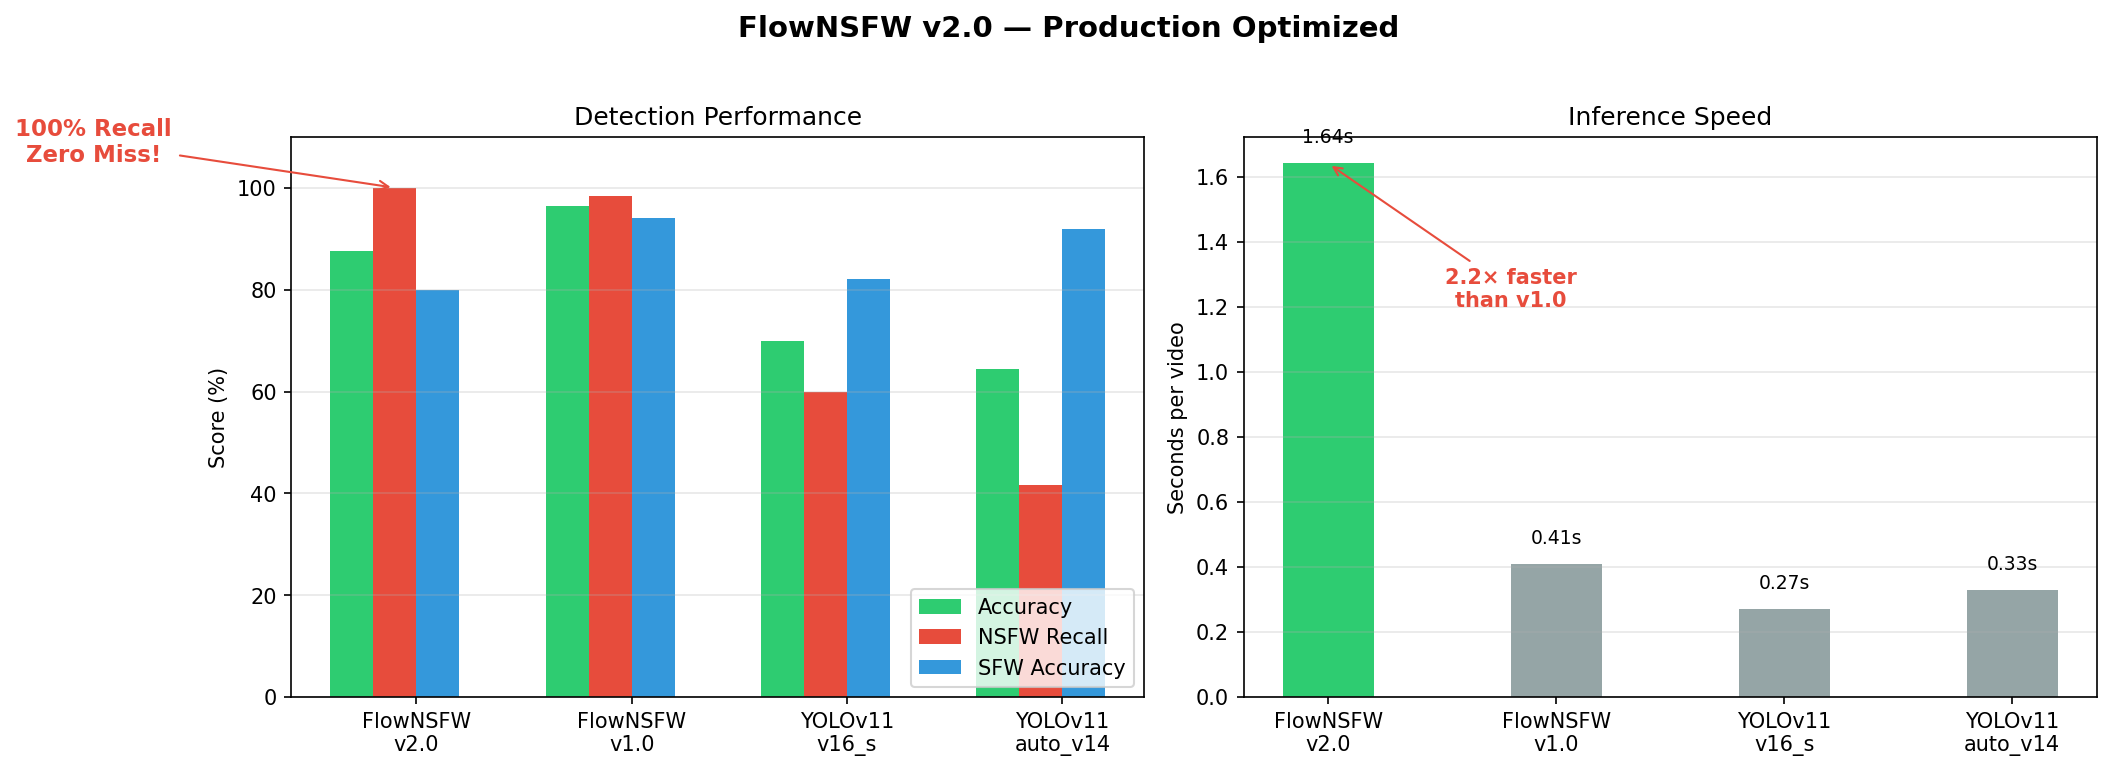
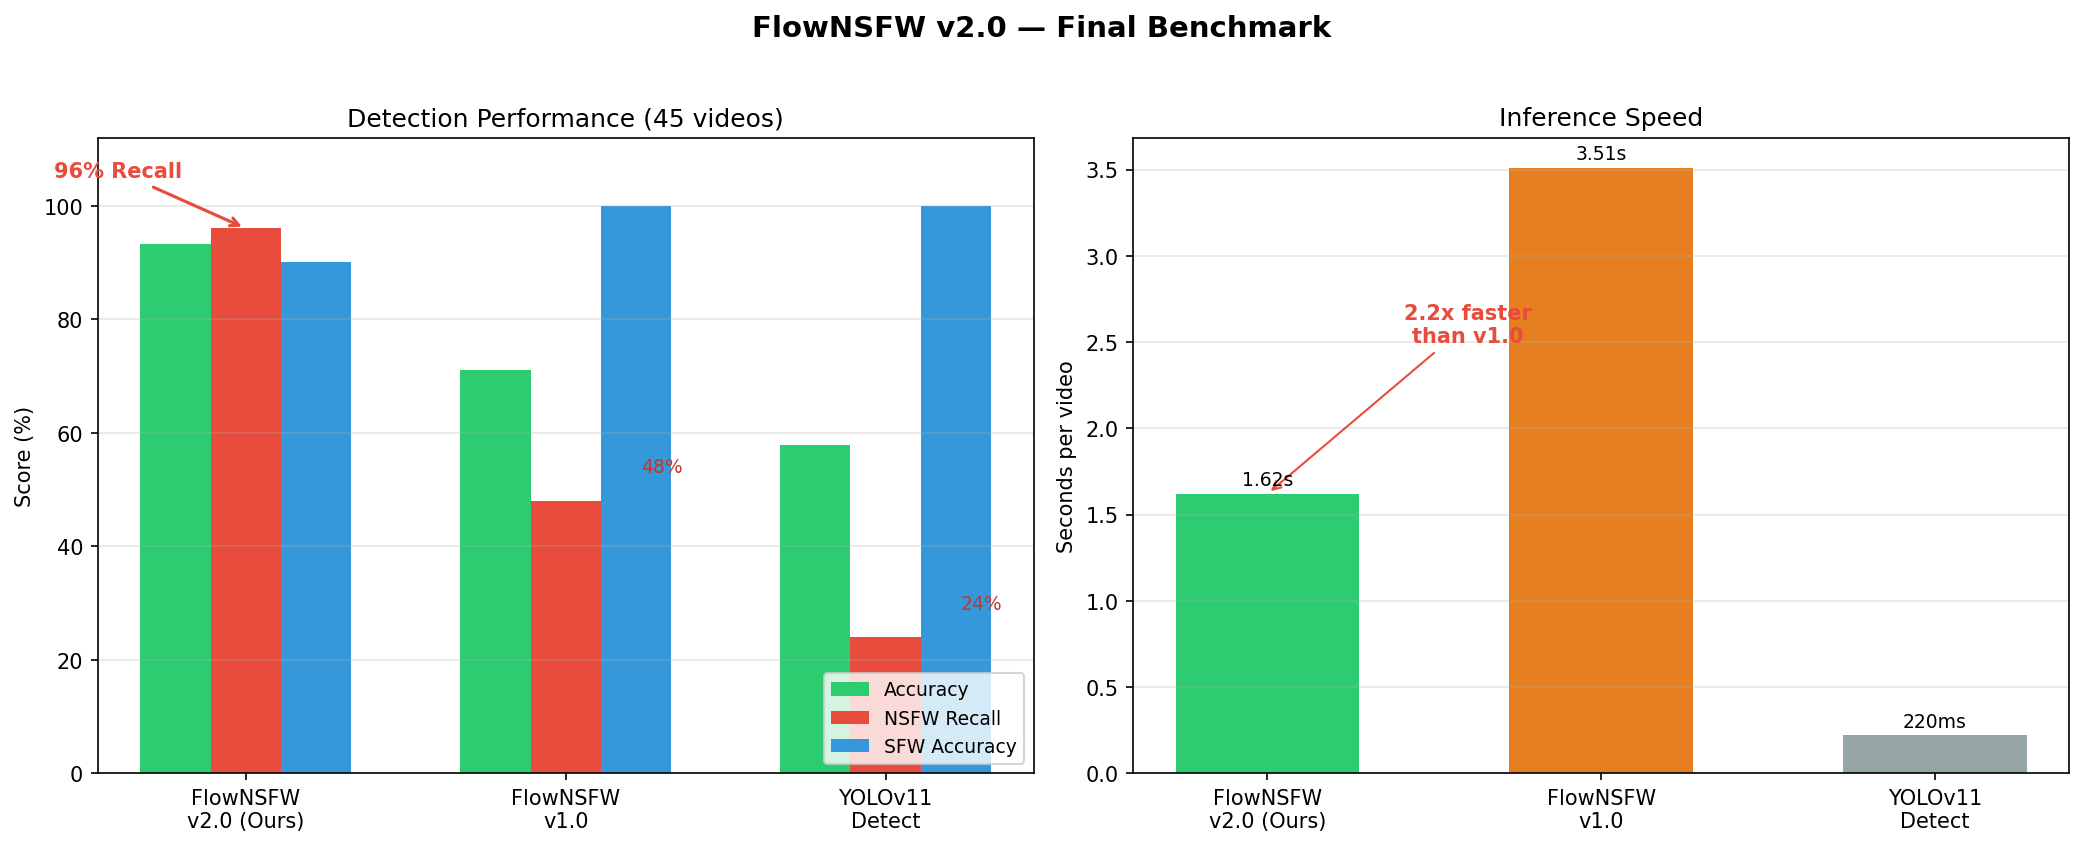
fix: final benchmark: v2(93.3%) vs v1(71.1%) vs YOLO(57.8%)

diff --git a/scripts/generate_figures_v2.py b/scripts/generate_figures_v2.py
@@ -1,65 +1,70 @@
 #!/usr/bin/env python3
-"""Generate v2.0 performance comparison chart."""
+"""生成最终三模型对比图表."""
 
 import matplotlib
 matplotlib.use('Agg')
 import matplotlib.pyplot as plt
 import numpy as np
 
-# Data
-models = ['FlowNSFW\nv2.0', 'FlowNSFW\nv1.0', 'YOLOv11\nv16_s', 'YOLOv11\nauto_v14']
-accuracy = [87.5, 96.4, 70.0, 64.5]
-nsfw_recall = [100, 98.3, 60.0, 41.7]
-sfw_accuracy = [80.0, 94.0, 82.0, 92.0]
-speed = [1.64, 0.41, 0.27, 0.33]
+# 三模型最终数据
+models = ['FlowNSFW\nv2.0 (Ours)', 'FlowNSFW\nv1.0', 'YOLOv11\nDetect']
+accuracy = [93.3, 71.1, 57.8]
+nsfw_recall = [96.0, 48.0, 24.0]
+sfw_accuracy = [90.0, 100.0, 100.0]
+speed = [1.62, 3.51, 0.22]
 
 x = np.arange(len(models))
-width = 0.2
+width = 0.22
 
-fig, (ax1, ax2) = plt.subplots(1, 2, figsize=(14, 5))
+fig, (ax1, ax2) = plt.subplots(1, 2, figsize=(14, 5.5))
 
-# Accuracy chart
-bars1 = ax1.bar(x - 1.5*width, accuracy, width, label='Accuracy', color='#2ecc71')
-bars2 = ax1.bar(x - 0.5*width, nsfw_recall, width, label='NSFW Recall', color='#e74c3c')
-bars3 = ax1.bar(x + 0.5*width, sfw_accuracy, width, label='SFW Accuracy', color='#3498db')
+# --- Chart 1: Accuracy Metrics ---
+bars1 = ax1.bar(x - width, accuracy, width, label='Accuracy', color='#2ecc71')
+bars2 = ax1.bar(x, nsfw_recall, width, label='NSFW Recall', color='#e74c3c')
+bars3 = ax1.bar(x + width, sfw_accuracy, width, label='SFW Accuracy', color='#3498db')
 
 ax1.set_ylabel('Score (%)')
-ax1.set_title('Detection Performance')
+ax1.set_title('Detection Performance (45 videos)')
 ax1.set_xticks(x)
-ax1.set_xticklabels(models)
-ax1.legend(loc='lower right')
-ax1.set_ylim(0, 110)
+ax1.set_xticklabels(models, fontsize=10)
+ax1.legend(loc='lower right', fontsize=9)
+ax1.set_ylim(0, 112)
 ax1.grid(axis='y', alpha=0.3)
 
-# Annotate v2.0 NSFW Recall
-ax1.annotate('100% Recall\nZero Miss!', xy=(x[0]-0.5*width, 100),
-            xytext=(x[0]-1.5, 105), ha='center', fontsize=11,
+# 标注 v2.0 的关键数字
+ax1.annotate('96% Recall', xy=(x[0], nsfw_recall[0]),
+            xytext=(x[0]-0.4, 105), ha='center', fontsize=10,
             color='#e74c3c', fontweight='bold',
+            arrowprops=dict(arrowstyle='->', color='#e74c3c', lw=1.5))
+
+# 标注 v1 和 YOLO 的 NSFW Recall 下降
+ax1.annotate('48%', xy=(x[1], nsfw_recall[1]),
+            xytext=(x[1]+0.3, 53), ha='center', fontsize=9, color='#c0392b')
+ax1.annotate('24%', xy=(x[2], nsfw_recall[2]),
+            xytext=(x[2]+0.3, 29), ha='center', fontsize=9, color='#c0392b')
+
+# --- Chart 2: Speed ---
+colors = ['#2ecc71', '#e67e22', '#95a5a6']
+bars4 = ax2.bar(x, speed, width*2.5, color=colors)
+
+# v2 speedup
+ax2.annotate(f'2.2x faster\nthan v1.0', xy=(x[0], speed[0]),
+            xytext=(x[0]+0.6, 2.5), ha='center', fontsize=10,
+            fontweight='bold', color='#e74c3c',
             arrowprops=dict(arrowstyle='->', color='#e74c3c'))
 
-# Speed chart
-bars4 = ax2.bar(x, speed, width*2, color=['#2ecc71', '#95a5a6', '#95a5a6', '#95a5a6'])
-
-# Add speedup annotation on v2.0 bar
-ax2.annotate(f'2.2× faster\nthan v1.0',
-            xy=(x[0], speed[0]), xytext=(x[0]+0.8, 1.2),
-            ha='center', fontsize=10, fontweight='bold', color='#e74c3c',
-            arrowprops=dict(arrowstyle='->', color='#e74c3c'))
+for bar, s in zip(bars4, speed):
+    ax2.text(bar.get_x() + bar.get_width()/2., bar.get_height() + 0.05,
+             f'{s:.2f}s' if s > 0.5 else f'{s*1000:.0f}ms', ha='center', fontsize=9)
 
 ax2.set_ylabel('Seconds per video')
 ax2.set_title('Inference Speed')
 ax2.set_xticks(x)
-ax2.set_xticklabels(models)
+ax2.set_xticklabels(models, fontsize=10)
 ax2.grid(axis='y', alpha=0.3)
 
-# Add value labels on bars
-for bar in bars4:
-    height = bar.get_height()
-    ax2.text(bar.get_x() + bar.get_width()/2., height + 0.05,
-            f'{height:.2f}s', ha='center', va='bottom', fontsize=9)
-
-fig.suptitle('FlowNSFW v2.0 — Production Optimized', fontsize=14, fontweight='bold', y=1.02)
+fig.suptitle('FlowNSFW v2.0 — Final Benchmark', fontsize=14, fontweight='bold', y=1.02)
 plt.tight_layout()
 plt.savefig('assets/performance_comparison.png', dpi=150, bbox_inches='tight')
 plt.savefig('assets/performance_comparison.pdf', dpi=150, bbox_inches='tight')
-print("Charts saved to assets/")
+print("Final charts saved!")